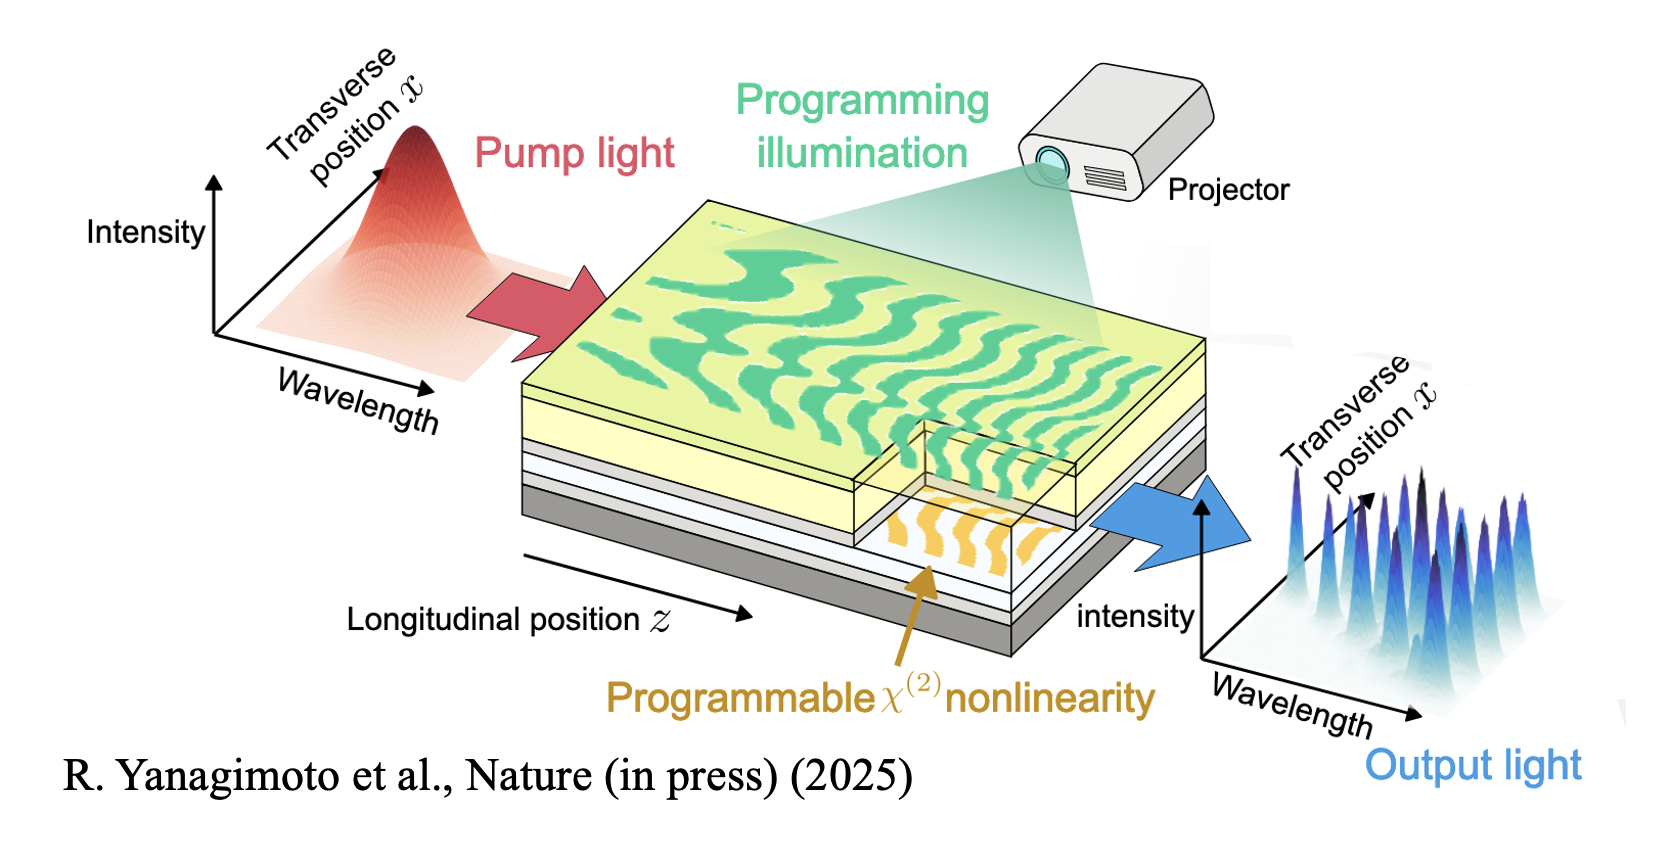
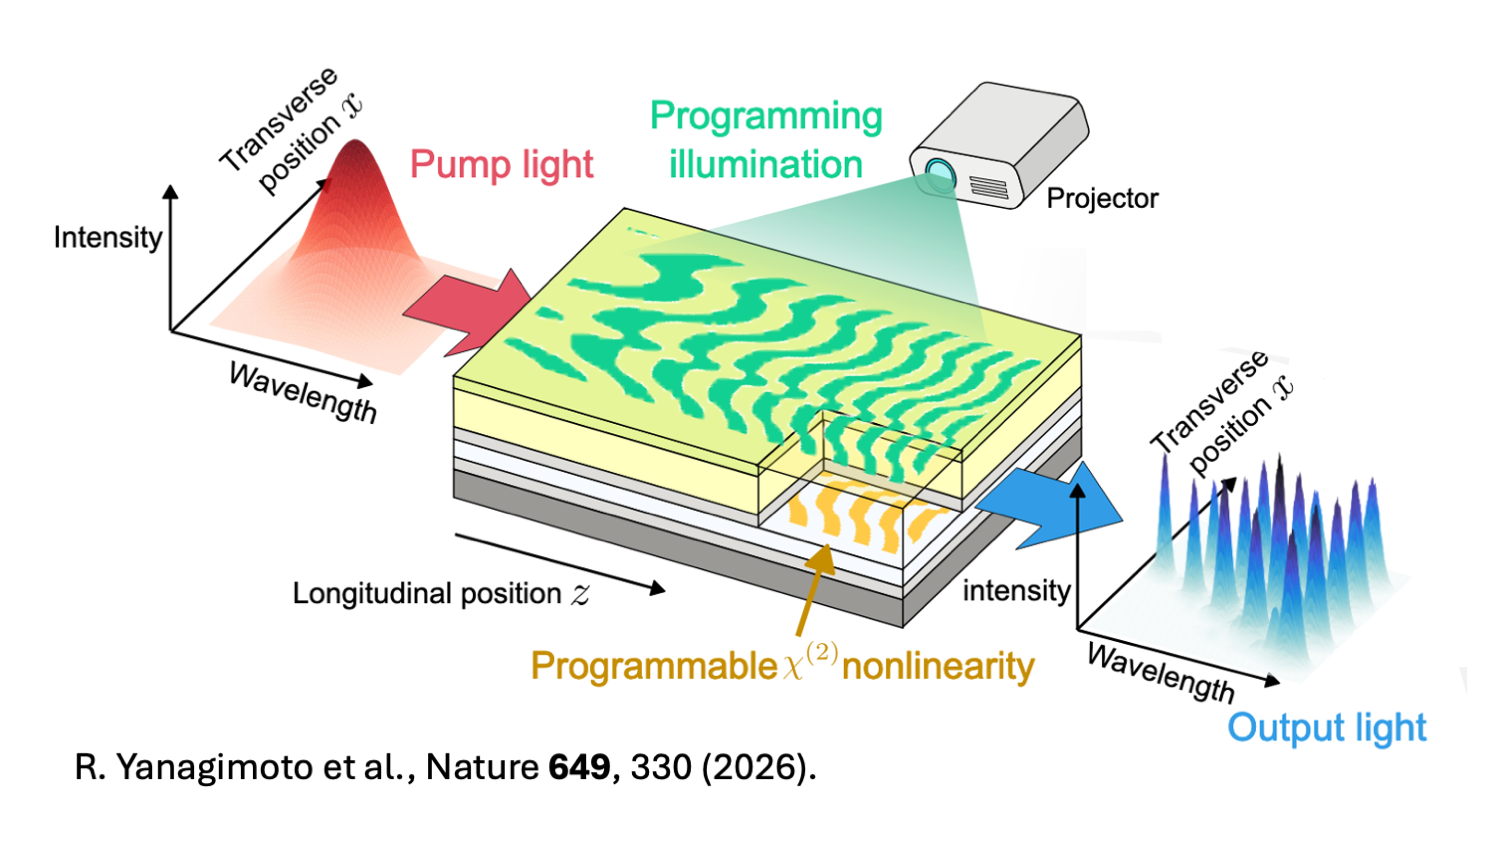
References updated

Changed region(s): [[0.0307, 0.0616, 0.9507, 0.9242], [0.0307, 0.8626, 0.552, 0.9242]]

diff --git a/_pages/about.md b/_pages/about.md
@@ -59,7 +59,7 @@ References:
 <ol> 
 <li>P. A. Franken et al., "Generation of Optical Harmonics," Phys. Rev. Lett. <b>7
 </b>, 118 (1961). </li>
-<li>R. Yanagimoto et al., "Programmable on-chip nonlinear photonics," Nature (in press) (2025).</li>
+<li>R. Yanagimoto et al., "Programmable on-chip nonlinear photonics," Nature <b>649</b>, 330 (2026).</li>
 <li>T. Wu et al., "Field-programmable photonic nonlinearity," Nat. Photon. <b>19</b>, 725 (2025).</li>
 <li>V. Sultanov et al., "Tunable entangled photon-pair generation in a liquid crystal," Nature <b>631</b>, 294 (2024).</li>
 <li>G. Bashan et al., "Optically programable quasi phase matching in four-wave mixing," Nat. Commun. <b>16</b>, 6855 (2025).</li>

diff --git a/_publications/2023-03-29-QND.md b/_publications/2023-03-29-QND.md
@@ -6,7 +6,7 @@ excerpt: ''
 date: 2023-03-29
 venue: 
 paperurl: 'https://journals.aps.org/prxquantum/abstract/10.1103/PRXQuantum.4.010333'
-citation: '<i>PRX Quantum </i>4, 010333 (2023)'
+citation: '<i>PRX Quantum </i> 4, 010333 (2023)'
 authors: 'R. Yanagimoto*, R. Nehra*, R. Hamerly, E. Ng, A. Marandi, H. Mabuchi'
 featured: true
 imagepath: '/images/publications/QND.jpeg'